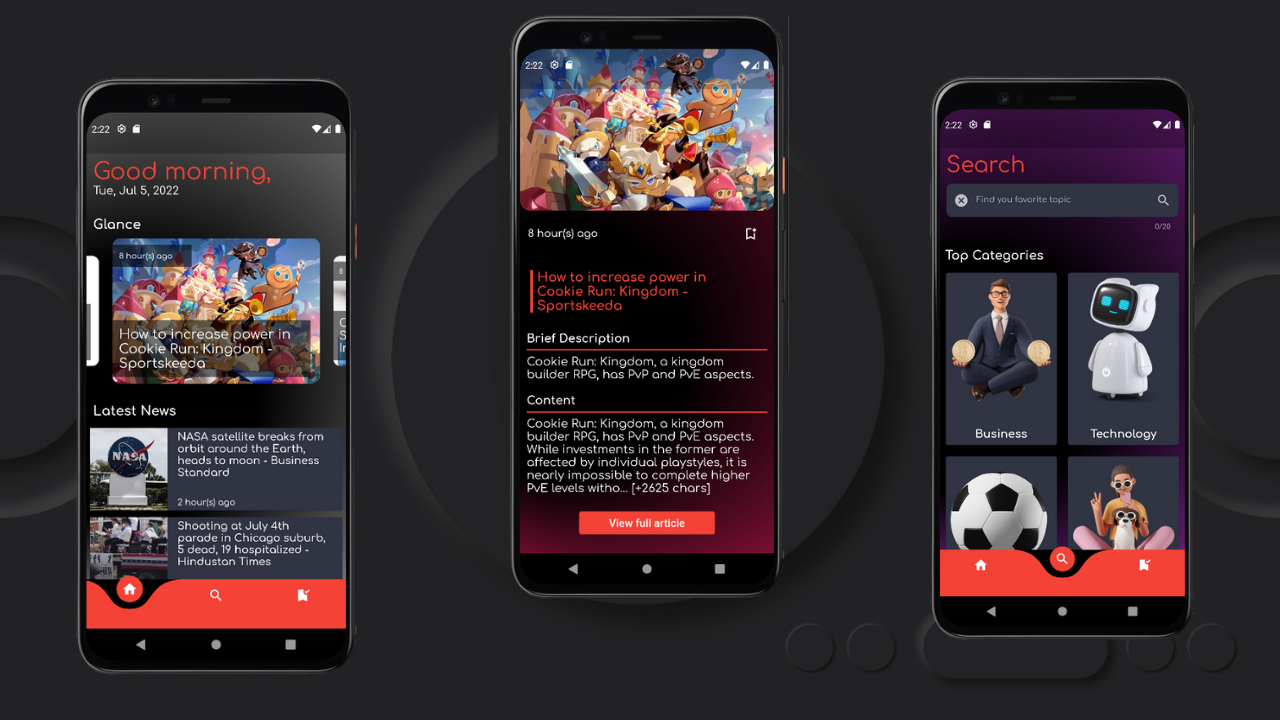
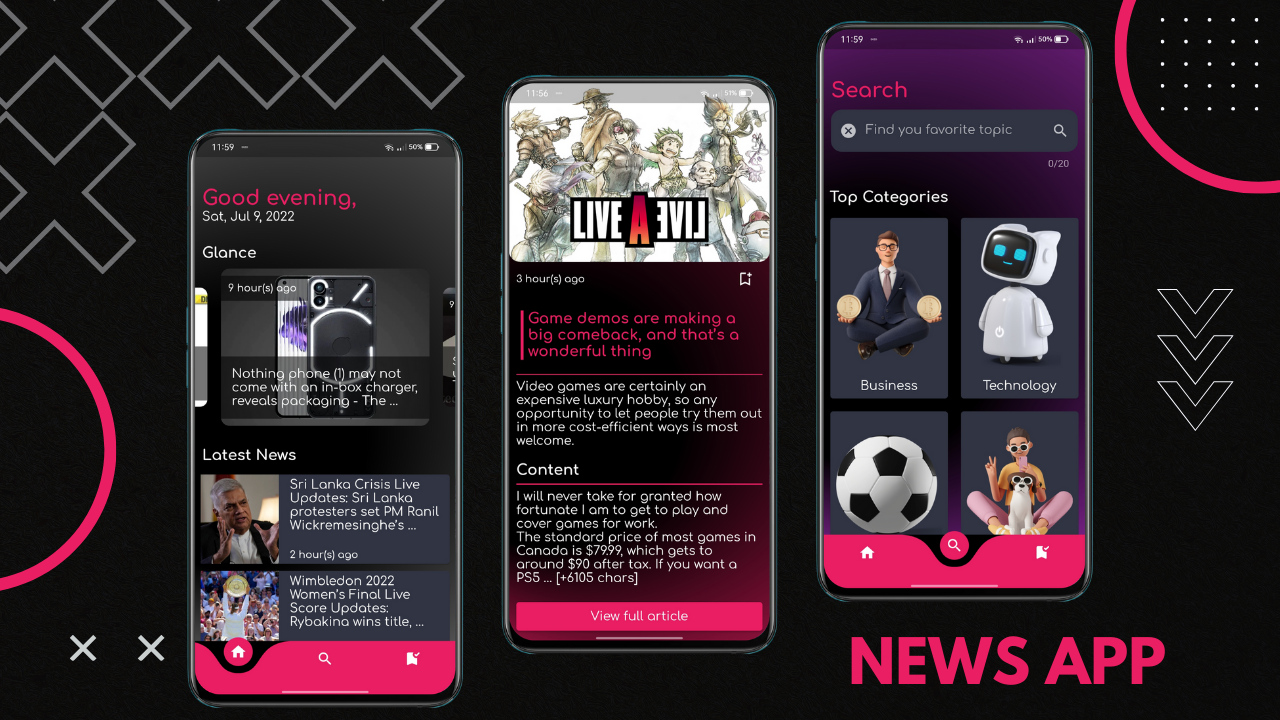
Changed FontSize

diff --git a/lib/widgets/detailed_news.dart b/lib/widgets/detailed_news.dart
@@ -33,13 +33,16 @@ class _DetailedNewsState extends State<DetailedNews> {
           children: [
             Text(
               heading,
-              style: const TextStyle(fontWeight: FontWeight.bold),
+              style: Theme.of(context).textTheme.headline3,
             ),
             Divider(
               color: Theme.of(context).primaryColor,
               thickness: 2,
             ),
-            Text(data),
+            Text(
+              data,
+              style: Theme.of(context).textTheme.subtitle1,
+            ),
           ],
         ),
       );
@@ -67,13 +70,13 @@ class _DetailedNewsState extends State<DetailedNews> {
             ),
           ),
           Padding(
-            padding: const EdgeInsets.all(12),
+            padding: const EdgeInsets.symmetric(horizontal: 10),
             child: Row(
               mainAxisAlignment: MainAxisAlignment.spaceBetween,
               children: [
                 Text(
                   publishedTime,
-                  style: Theme.of(context).textTheme.bodyText1,
+                  style: Theme.of(context).textTheme.subtitle2,
                 ),
                 IconButton(
                   onPressed: () {
@@ -108,7 +111,7 @@ class _DetailedNewsState extends State<DetailedNews> {
                     width: size / 1.2,
                     child: Text(
                       widget.detailedNews.title.toString(),
-                      style: Theme.of(context).textTheme.headline1,
+                      style: Theme.of(context).textTheme.headline4,
                     ),
                   ),
                 ],
@@ -130,6 +133,8 @@ class _DetailedNewsState extends State<DetailedNews> {
                   Padding(
                     padding: const EdgeInsets.all(10),
                     child: ElevatedButton(
+                      style: ElevatedButton.styleFrom(
+                          minimumSize: const Size.fromHeight(40)),
                       onPressed: () async {
                         String url = widget.detailedNews.url.toString();
                         //var urlLauchable = await canLaunchUrl(Uri.parse(url));
@@ -140,11 +145,11 @@ class _DetailedNewsState extends State<DetailedNews> {
                           throw 'Could not launch $url';
                         }
                       },
-                      child: const Padding(
-                        padding: EdgeInsets.only(right: 30, left: 30),
+                      child: Padding(
+                        padding: const EdgeInsets.only(right: 30, left: 30),
                         child: Text(
                           "View full article",
-                          style: TextStyle(fontSize: 17),
+                          style: Theme.of(context).textTheme.headline2,
                         ),
                       ),
                     ),

diff --git a/lib/widgets/bookmark_list.dart b/lib/widgets/bookmark_list.dart
@@ -30,20 +30,20 @@ class BookMarkList extends StatelessWidget {
       child: Dismissible(
         key: UniqueKey(),
         background: Container(
-          color: Colors.red.withOpacity(0.1),
+          color: Theme.of(context).primaryColor.withOpacity(0.1),
           margin: const EdgeInsets.symmetric(vertical: 3, horizontal: 12),
           padding: const EdgeInsets.all(20),
           alignment: Alignment.centerLeft,
           child: Row(
-            children: const [
+            children: [
               Icon(
                 Icons.delete,
-                color: Colors.red,
+                color: Theme.of(context).primaryColor,
               ),
-              SizedBox(width: 8),
+              const SizedBox(width: 8),
               Text(
                 "Delete",
-                style: TextStyle(color: Colors.red),
+                style: Theme.of(context).textTheme.headline4,
               ),
             ],
           ),
@@ -69,10 +69,12 @@ class BookMarkList extends StatelessWidget {
                 children: [
                   Text(
                     "Delete my Bookmark",
-                    style: Theme.of(context).textTheme.headline1,
+                    style: Theme.of(context).textTheme.headline4,
                   ),
-                  const Text(
-                      "Are you sure you want to delete the news you've bookmarked before?"),
+                  Text(
+                    "Are you sure you want to delete the news you've bookmarked before?",
+                    style: Theme.of(context).textTheme.subtitle1,
+                  ),
                   ElevatedButton(
                     style: ElevatedButton.styleFrom(
                       minimumSize: const Size.fromHeight(40),
@@ -111,14 +113,14 @@ class BookMarkList extends StatelessWidget {
                       // if the text is in row/col use expanded to resolve text overflwing
                       child: Text(
                         title,
-                        style: Theme.of(context).textTheme.bodyText1,
+                        style: Theme.of(context).textTheme.subtitle1,
                         overflow: TextOverflow.ellipsis,
                         maxLines: 4,
                       ),
                     ),
                     Text(
                       convertToAgo(DateTime.parse(publishedDate)),
-                      style: Theme.of(context).textTheme.subtitle1,
+                      style: Theme.of(context).textTheme.subtitle2,
                     ),
                   ],
                 ),

diff --git a/lib/screens/home_page.dart b/lib/screens/home_page.dart
@@ -67,7 +67,7 @@ class _HomePageState extends State<HomePage> {
 
     return Scaffold(
       body: Container(
-        decoration: customcgradientolor(Colors.white, Colors.black),
+        decoration: customcgradientolor(Colors.grey, Colors.black),
         child: Column(
           crossAxisAlignment: CrossAxisAlignment.start,
           children: [
@@ -78,28 +78,22 @@ class _HomePageState extends State<HomePage> {
                 children: [
                   Text(
                     greet,
-                    style: TextStyle(
-                      fontSize: 35,
-                      color: Theme.of(context).primaryColor,
-                    ),
+                    style: Theme.of(context).textTheme.headline1,
                   ),
                   Text(
                     DateFormat.yMMMEd().format(now).toString(),
-                    style: const TextStyle(fontSize: 17),
+                    style: Theme.of(context).textTheme.headline2,
                   ),
                 ],
               ),
             ),
             news.allNews('general').isEmpty
                 ? Container()
-                : const Padding(
-                    padding: EdgeInsets.all(10),
+                : Padding(
+                    padding: const EdgeInsets.all(10),
                     child: Text(
                       "Glance",
-                      style: TextStyle(
-                        fontSize: 20,
-                        fontWeight: FontWeight.bold,
-                      ),
+                      style: Theme.of(context).textTheme.headline3,
                     ),
                   ),
             _isLoading1
@@ -113,12 +107,12 @@ class _HomePageState extends State<HomePage> {
             const SizedBox(height: 20),
             news.allNews('general').isEmpty
                 ? Container()
-                : const Padding(
-                    padding: EdgeInsets.only(left: 10, top: 10, bottom: 10),
+                : Padding(
+                    padding:
+                        const EdgeInsets.only(left: 10, top: 10, bottom: 10),
                     child: Text(
                       "Latest News",
-                      style:
-                          TextStyle(fontSize: 20, fontWeight: FontWeight.bold),
+                      style: Theme.of(context).textTheme.headline3,
                     ),
                   ),
             _isLoading2

diff --git a/lib/main.dart b/lib/main.dart
@@ -8,6 +8,7 @@ import 'package:newsapp/screens/news_in_detail_screen.dart';
 import 'package:newsapp/screens/search_screen.dart';
 import 'screens/home_page.dart';
 import 'package:provider/provider.dart';
+import 'package:flutter/services.dart';
 
 void main() {
   runApp(const MyApp());
@@ -23,11 +24,11 @@ class MyApp extends StatelessWidget {
         ChangeNotifierProvider(create: (ctx) => BookMarkProvider()),
       ],
       child: MaterialApp(
-        title: 'Flutter Demo',
+        title: 'News App',
         debugShowCheckedModeBanner: false,
         theme: ThemeData(
-          primarySwatch: Colors.grey,
-          primaryColor: Colors.grey,
+          primarySwatch: Colors.pink,
+          primaryColor: Colors.pink,
           accentColor: Colors.white,
           brightness: Brightness.dark,
           fontFamily: 'Comfortaa',
@@ -35,13 +36,28 @@ class MyApp extends StatelessWidget {
           textTheme: ThemeData.light().textTheme.copyWith(
                 bodyText1: const TextStyle(color: Colors.white, fontSize: 16),
                 bodyText2: const TextStyle(color: Colors.white, fontSize: 18),
-                subtitle1: const TextStyle(color: Colors.white, fontSize: 13),
+                subtitle1: const TextStyle(color: Colors.white, fontSize: 15),
+                subtitle2: const TextStyle(color: Colors.white, fontSize: 12),
                 headline1: const TextStyle(
-                  color: Colors.grey,
-                  fontSize: 20,
+                  color: Colors.pink,
+                  fontSize: 25,
                   fontWeight: FontWeight.bold,
                 ),
-                //style: Theme.of(context).textTheme.bodyText1
+                headline2: const TextStyle(
+                  color: Colors.white,
+                  fontSize: 15,
+                ),
+                headline3: const TextStyle(
+                  color: Colors.white,
+                  fontSize: 18,
+                  fontWeight: FontWeight.bold,
+                ),
+                headline4: const TextStyle(
+                  color: Colors.pink,
+                  fontSize: 18,
+                  fontWeight: FontWeight.bold,
+                ),
+                // style: Theme.of(context).textTheme.bodyText1
               ),
         ),
         home: HomePage(),

diff --git a/lib/screens/search_screen.dart b/lib/screens/search_screen.dart
@@ -65,11 +65,7 @@ class SearchScreen extends StatelessWidget {
                     fit: BoxFit.fitWidth,
                     child: Text(
                       categoryName,
-                      style: const TextStyle(
-                        // overflow: TextOverflow.ellipsis,
-                        fontSize: 18,
-                        fontWeight: FontWeight.bold,
-                      ),
+                      style: Theme.of(context).textTheme.subtitle1,
                     ),
                   ),
                 ],
@@ -112,10 +108,7 @@ class SearchScreen extends StatelessWidget {
               padding: const EdgeInsets.only(top: 70, left: 10, bottom: 5),
               child: Text(
                 "Search",
-                style: TextStyle(
-                  fontSize: 35,
-                  color: Theme.of(context).primaryColor,
-                ),
+                style: Theme.of(context).textTheme.headline1,
               ),
             ),
             const SizedBox(
@@ -131,7 +124,7 @@ class SearchScreen extends StatelessWidget {
                   filled: true,
                   fillColor: const Color(0xFF303443),
                   border: OutlineInputBorder(
-                    borderRadius: BorderRadius.circular(10),
+                    borderRadius: BorderRadius.circular(15),
                     borderSide: BorderSide.none,
                   ),
                   hintText: "Find you favorite topic",
@@ -157,11 +150,11 @@ class SearchScreen extends StatelessWidget {
             const SizedBox(
               height: 20,
             ),
-            const Padding(
-              padding: EdgeInsets.all(8.0),
+            Padding(
+              padding: const EdgeInsets.all(8.0),
               child: Text(
                 "Top Categories",
-                style: TextStyle(fontSize: 20, fontWeight: FontWeight.bold),
+                style: Theme.of(context).textTheme.headline3,
               ),
             ),
             Expanded(

diff --git a/lib/widgets/list_news.dart b/lib/widgets/list_news.dart
@@ -33,7 +33,7 @@ class ListNews extends StatelessWidget {
       },
       child: Card(
         color: const Color(0xFF303443),
-        margin: const EdgeInsets.all(5.0),
+        margin: const EdgeInsets.symmetric(vertical: 5.0, horizontal: 8.0),
         child: Row(
           children: [
             Container(
@@ -59,7 +59,7 @@ class ListNews extends StatelessWidget {
                     // if the text is in row/col use expanded to resolve text overflwing
                     child: Text(
                       title,
-                      style: Theme.of(context).textTheme.bodyText1,
+                      style: Theme.of(context).textTheme.subtitle1,
                       overflow: TextOverflow.ellipsis,
                       maxLines: 4,
                     ),
@@ -69,7 +69,7 @@ class ListNews extends StatelessWidget {
                   ),
                   Text(
                     convertToAgo(DateTime.parse(publishedDate)),
-                    style: Theme.of(context).textTheme.subtitle1,
+                    style: Theme.of(context).textTheme.subtitle2,
                   ),
                 ],
               ),

diff --git a/lib/widgets/home_carousel_slider.dart b/lib/widgets/home_carousel_slider.dart
@@ -56,10 +56,10 @@ class HomeCarouselSlider extends StatelessWidget {
                     child: Container(
                       width: 300,
                       color: Colors.black54,
-                      padding: const EdgeInsets.all(10),
+                      padding: const EdgeInsets.all(15),
                       child: Text(
                         title,
-                        style: TextStyle(fontSize: 20),
+                        style: Theme.of(context).textTheme.subtitle1,
                         maxLines: 3,
                         overflow: TextOverflow.ellipsis,
                       ),
@@ -73,7 +73,7 @@ class HomeCarouselSlider extends StatelessWidget {
                       padding: const EdgeInsets.all(10),
                       child: Text(
                         convertToAgo(DateTime.parse(publishedDate)),
-                        style: const TextStyle(fontSize: 12),
+                        style: Theme.of(context).textTheme.subtitle2,
                       ),
                     ),
                   )

diff --git a/lib/screens/bookmark_screen.dart b/lib/screens/bookmark_screen.dart
@@ -32,10 +32,7 @@ class BookmarkScreen extends StatelessWidget {
                         const EdgeInsets.only(top: 70, left: 10, bottom: 5),
                     child: Text(
                       "Bookmark",
-                      style: TextStyle(
-                        fontSize: 35,
-                        color: Theme.of(context).primaryColor,
-                      ),
+                      style: Theme.of(context).textTheme.headline1,
                     ),
                   ),
                   const SizedBox(

diff --git a/lib/widgets/nothing_here.dart b/lib/widgets/nothing_here.dart
@@ -23,7 +23,7 @@ class NothingHere extends StatelessWidget {
         ),
         Text(
           "Move Along",
-          style: Theme.of(context).textTheme.headline1,
+          style: Theme.of(context).textTheme.headline4,
         ),
       ],
     );
